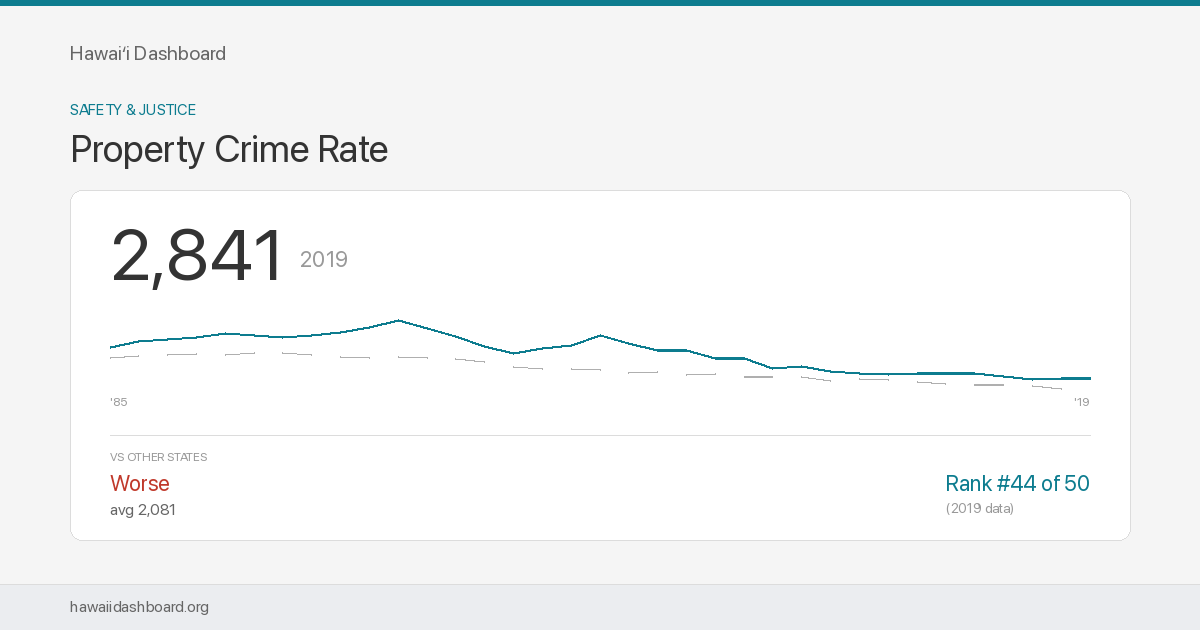
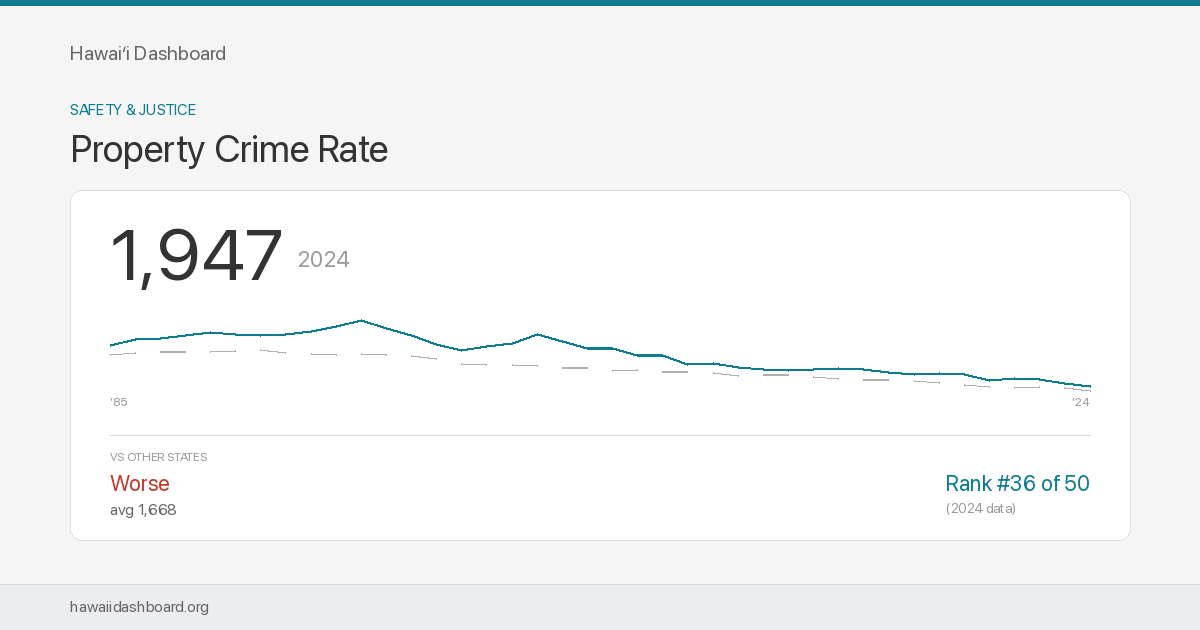
Extend property crime data to 2024 (was 2019)
Added 2020-2024 data from FBI CDE via BeautifyData.com.
Hawaii improved from 2,841 (2019) to 1,947 (2024), rank #36/50.
Updated narratives, rankings data, and OG images.

diff --git a/js/state-data.js b/js/state-data.js
@@ -9054,6 +9054,266 @@ const STATE_DATA = {
             "West Virginia": 1583.4,
             "Wisconsin": 1471.4,
             "Wyoming": 1571.1
+      },
+      "2020": {
+              "Louisiana": 2884.4,
+              "New Mexico": 2841.9,
+              "Colorado": 2833.8,
+              "Washington": 2732.4,
+              "South Carolina": 2721.1,
+              "Oklahoma": 2705.6,
+              "Oregon": 2659.0,
+              "Arkansas": 2613.4,
+              "Missouri": 2531.0,
+              "Tennessee": 2492.8,
+              "Utah": 2464.4,
+              "Hawaiʻi": 2411.4,
+              "Alaska": 2260.5,
+              "Texas": 2245.0,
+              "Arizona": 2227.7,
+              "North Carolina": 2226.5,
+              "Kansas": 2199.1,
+              "California": 2138.9,
+              "Alabama": 2136.8,
+              "Minnesota": 2124.9,
+              "North Dakota": 2124.1,
+              "Montana": 2120.8,
+              "Mississippi": 2101.6,
+              "Georgia": 2007.4,
+              "Delaware": 1961.4,
+              "South Dakota": 1956.7,
+              "Nevada": 1926.6,
+              "Nebraska": 1909.2,
+              "Ohio": 1850.3,
+              "Indiana": 1783.2,
+              "Kentucky": 1779.5,
+              "Florida": 1769.4,
+              "Iowa": 1698.2,
+              "Pennsylvania": 1644.1,
+              "Wyoming": 1610.6,
+              "Maryland": 1609.8,
+              "Connecticut": 1565.1,
+              "Illinois": 1559.4,
+              "Wisconsin": 1485.7,
+              "Virginia": 1456.4,
+              "New York": 1410.7,
+              "West Virginia": 1399.4,
+              "Michigan": 1360.9,
+              "Rhode Island": 1245.5,
+              "Vermont": 1217.0,
+              "New Jersey": 1158.2,
+              "Maine": 1156.2,
+              "Idaho": 1111.9,
+              "New Hampshire": 1098.9,
+              "Massachusetts": 1053.2
+      },
+      "2021": {
+              "Colorado": 3146.5,
+              "Washington": 3035.5,
+              "New Mexico": 2772.4,
+              "Oregon": 2690.9,
+              "Oklahoma": 2628.5,
+              "Hawaiʻi": 2533.2,
+              "Arkansas": 2529.0,
+              "Louisiana": 2528.9,
+              "South Carolina": 2493.8,
+              "Missouri": 2346.8,
+              "Tennessee": 2255.8,
+              "Kansas": 2247.2,
+              "Nevada": 2232.3,
+              "Texas": 2171.9,
+              "California": 2165.3,
+              "North Dakota": 2144.8,
+              "Arizona": 2114.8,
+              "Utah": 2099.2,
+              "North Carolina": 2087.2,
+              "Minnesota": 2045.6,
+              "Montana": 2029.3,
+              "Delaware": 1881.4,
+              "Mississippi": 1860.4,
+              "Alaska": 1832.8,
+              "Nebraska": 1818.6,
+              "Ohio": 1720.1,
+              "Wyoming": 1685.8,
+              "South Dakota": 1678.0,
+              "Kentucky": 1623.7,
+              "Georgia": 1601.4,
+              "Indiana": 1553.0,
+              "Wisconsin": 1537.5,
+              "Maryland": 1522.0,
+              "Connecticut": 1518.4,
+              "Florida": 1517.6,
+              "Iowa": 1508.3,
+              "Alabama": 1470.8,
+              "Virginia": 1449.4,
+              "Illinois": 1393.3,
+              "Vermont": 1383.8,
+              "Michigan": 1366.9,
+              "West Virginia": 1356.7,
+              "Pennsylvania": 1246.3,
+              "Rhode Island": 1228.3,
+              "Maine": 1134.2,
+              "New Jersey": 1109.4,
+              "New York": 1047.8,
+              "New Hampshire": 1037.5,
+              "Massachusetts": 1000.3,
+              "Idaho": 964.7
+      },
+      "2022": {
+              "Washington": 3370.7,
+              "Colorado": 3173.8,
+              "New Mexico": 2976.2,
+              "Oregon": 2950.3,
+              "Louisiana": 2759.2,
+              "Hawaiʻi": 2481.7,
+              "Arkansas": 2468.3,
+              "Nevada": 2398.7,
+              "Missouri": 2370.4,
+              "California": 2361.5,
+              "Oklahoma": 2351.2,
+              "South Carolina": 2331.6,
+              "Tennessee": 2331.3,
+              "Texas": 2309.2,
+              "Kansas": 2121.9,
+              "North Carolina": 2069.7,
+              "Arizona": 2060.2,
+              "North Dakota": 2007.8,
+              "Delaware": 1983.6,
+              "Minnesota": 1976.8,
+              "Montana": 1945.1,
+              "Utah": 1904.0,
+              "Nebraska": 1893.5,
+              "Alabama": 1835.0,
+              "Alaska": 1814.5,
+              "Ohio": 1806.7,
+              "Mississippi": 1739.7,
+              "South Dakota": 1737.6,
+              "New York": 1719.4,
+              "Virginia": 1714.1,
+              "Maryland": 1713.5,
+              "Georgia": 1708.7,
+              "Vermont": 1698.3,
+              "Illinois": 1692.6,
+              "Wyoming": 1649.5,
+              "Florida": 1606.9,
+              "Michigan": 1549.4,
+              "Indiana": 1520.7,
+              "Connecticut": 1507.7,
+              "Pennsylvania": 1503.4,
+              "Kentucky": 1486.0,
+              "New Jersey": 1438.6,
+              "Iowa": 1401.8,
+              "Wisconsin": 1369.6,
+              "West Virginia": 1333.0,
+              "Rhode Island": 1286.8,
+              "Maine": 1221.5,
+              "Massachusetts": 1074.8,
+              "New Hampshire": 1032.8,
+              "Idaho": 941.2
+      },
+      "2023": {
+              "Colorado": 2923.2,
+              "Washington": 2891.1,
+              "New Mexico": 2876.1,
+              "Louisiana": 2603.2,
+              "Oregon": 2601.9,
+              "Nevada": 2539.6,
+              "Tennessee": 2373.3,
+              "Kansas": 2337.2,
+              "California": 2326.1,
+              "Arkansas": 2236.7,
+              "Texas": 2229.3,
+              "South Carolina": 2224.4,
+              "Oklahoma": 2159.2,
+              "Missouri": 2158.0,
+              "Maryland": 2147.0,
+              "Hawaiʻi": 2142.5,
+              "North Carolina": 2070.7,
+              "Nebraska": 1975.7,
+              "North Dakota": 1944.4,
+              "Delaware": 1936.3,
+              "Arizona": 1926.6,
+              "Alaska": 1881.6,
+              "Georgia": 1877.8,
+              "Alabama": 1866.9,
+              "Montana": 1843.5,
+              "Vermont": 1817.5,
+              "New York": 1802.9,
+              "Ohio": 1746.6,
+              "Minnesota": 1706.9,
+              "Illinois": 1706.0,
+              "Virginia": 1670.1,
+              "South Dakota": 1622.9,
+              "Utah": 1618.4,
+              "Mississippi": 1584.7,
+              "Pennsylvania": 1564.5,
+              "Connecticut": 1564.4,
+              "Kentucky": 1559.7,
+              "Michigan": 1559.4,
+              "Indiana": 1537.8,
+              "New Jersey": 1527.5,
+              "Florida": 1510.8,
+              "Wyoming": 1474.9,
+              "Iowa": 1434.2,
+              "Wisconsin": 1237.5,
+              "West Virginia": 1188.5,
+              "Maine": 1128.7,
+              "Massachusetts": 1119.3,
+              "Rhode Island": 1115.0,
+              "New Hampshire": 912.0,
+              "Idaho": 818.8
+      },
+      "2024": {
+              "New Mexico": 2751.1,
+              "Colorado": 2592.8,
+              "Washington": 2466.5,
+              "Oregon": 2388.0,
+              "Louisiana": 2296.4,
+              "Nevada": 2197.0,
+              "California": 2078.4,
+              "Maryland": 2049.6,
+              "Texas": 2040.5,
+              "Tennessee": 2032.1,
+              "Oklahoma": 1977.7,
+              "North Carolina": 1968.2,
+              "South Carolina": 1965.8,
+              "Kansas": 1956.4,
+              "Hawaiʻi": 1946.8,
+              "Missouri": 1941.2,
+              "Arkansas": 1929.5,
+              "Arizona": 1792.1,
+              "Delaware": 1745.8,
+              "New York": 1719.5,
+              "Illinois": 1715.2,
+              "Alaska": 1711.2,
+              "North Dakota": 1682.1,
+              "Georgia": 1674.8,
+              "Vermont": 1627.5,
+              "Nebraska": 1626.7,
+              "Montana": 1617.3,
+              "Minnesota": 1606.3,
+              "South Dakota": 1586.0,
+              "Virginia": 1569.7,
+              "Alabama": 1565.1,
+              "Ohio": 1551.2,
+              "Pennsylvania": 1435.0,
+              "New Jersey": 1427.3,
+              "Florida": 1420.4,
+              "Utah": 1408.9,
+              "Michigan": 1378.9,
+              "Indiana": 1378.6,
+              "Connecticut": 1366.1,
+              "Mississippi": 1363.0,
+              "Kentucky": 1349.9,
+              "Iowa": 1296.8,
+              "Wyoming": 1231.9,
+              "West Virginia": 1161.9,
+              "Wisconsin": 1154.1,
+              "Maine": 1142.1,
+              "Massachusetts": 1112.1,
+              "Rhode Island": 1032.4,
+              "New Hampshire": 918.0,
+              "Idaho": 736.2
       }
 }
   },

diff --git a/js/data.js b/js/data.js
@@ -112,9 +112,9 @@ const DASHBOARD_DATA = {
     "goodDirection": "down",
     "source": "FBI Uniform Crime Reports",
     "sourceUrl": "https://cde.ucr.cjis.gov/",
-    "whyItMatters": "At 2,841 per 100,000 in 2019, Hawaiʻi's property crime rate is 36% above the other-state average of 2,081. This includes burglary, larceny-theft, and motor vehicle theft. Tourism-dependent areas, open-air living conditions, and high cost of living all contribute to elevated property crime.",
+    "whyItMatters": "At 1,947 per 100,000, Hawaiʻi's property crime rate is 17% above the other-state average of 1,668. This includes burglary, larceny-theft, and motor vehicle theft. Tourism-dependent areas, open-air living conditions, and high cost of living all contribute to elevated property crime.",
     "howToRead": "Hawaiʻi (teal) has consistently run above the other-state average (gray). Both lines have declined substantially since the early 1990s peak, but Hawaiʻi's gap above the average has persisted.",
-    "insight": "Hawaiʻi's property crime rate peaked at 6,903 per 100K in 1995 and has since fallen by 59%. Despite this dramatic improvement, the state still ranks #44 of 50 because the national decline was even steeper.",
+    "insight": "Hawaiʻi's property crime rate peaked at 6,903 per 100K in 1995 and has since fallen 72% to 1,947 in 2024. The gap with the national average has also narrowed, from 1.57x in 1995 to 1.17x today.",
     "hawaii": {
       "1985": 4981.1,
       "1986": 5426.2,
@@ -150,7 +150,12 @@ const DASHBOARD_DATA = {
       "2016": 2992.7,
       "2017": 2836.1,
       "2018": 2888.0,
-      "2019": 2841.2
+      "2019": 2841.2,
+      "2020": 2411.4,
+      "2021": 2533.2,
+      "2022": 2481.7,
+      "2023": 2142.5,
+      "2024": 1946.8
     },
     "otherStateAvg": {
       "1985": 4310.86,
@@ -187,7 +192,12 @@ const DASHBOARD_DATA = {
       "2016": 2448.11,
       "2017": 2369.24,
       "2018": 2205.06,
-      "2019": 2081.49
+      "2019": 2081.49,
+      "2020": 1942.26,
+      "2021": 1832.94,
+      "2022": 1902.42,
+      "2023": 1846.51,
+      "2024": 1668.06
     }
   },
   "pcp_per_100k": {

diff --git a/r/property_crime_rate/index.html b/r/property_crime_rate/index.html
@@ -6,16 +6,16 @@
   <meta property="og:type" content="website">
   <meta property="og:url" content="https://hawaiidashboard.org/r/property_crime_rate/">
   <meta property="og:title" content="Property Crime Rate Rankings | Hawaiʻi Dashboard">
-  <meta property="og:description" content="Hawaiʻi ranks #44 of 50 states in Property Crime Rate. 2,841 (2019).">
+  <meta property="og:description" content="Hawaiʻi ranks #36 of 50 states in Property Crime Rate. 1,947 (2024).">
   <meta property="og:image" content="https://hawaiidashboard.org/assets/og/property_crime_rate_rankings.png">
   <meta property="og:image:width" content="1200">
   <meta property="og:image:height" content="630">
   <meta property="og:site_name" content="Hawaiʻi Dashboard">
   <meta name="twitter:card" content="summary_large_image">
   <meta name="twitter:title" content="Property Crime Rate Rankings | Hawaiʻi Dashboard">
-  <meta name="twitter:description" content="Hawaiʻi ranks #44 of 50 states in Property Crime Rate. 2,841 (2019).">
+  <meta name="twitter:description" content="Hawaiʻi ranks #36 of 50 states in Property Crime Rate. 1,947 (2024).">
   <meta name="twitter:image" content="https://hawaiidashboard.org/assets/og/property_crime_rate_rankings.png">
-  <meta name="description" content="Hawaiʻi ranks #44 of 50 states in Property Crime Rate. 2,841 (2019).">
+  <meta name="description" content="Hawaiʻi ranks #36 of 50 states in Property Crime Rate. 1,947 (2024).">
   <link rel="canonical" href="https://hawaiidashboard.org/r/property_crime_rate/">
   <script>window.location.replace('/#property_crime_rate/rankings');</script>
   <meta http-equiv="refresh" content="0;url=https://hawaiidashboard.org/#property_crime_rate/rankings">

diff --git a/t/property_crime_rate/index.html b/t/property_crime_rate/index.html
@@ -6,16 +6,16 @@
   <meta property="og:type" content="website">
   <meta property="og:url" content="https://hawaiidashboard.org/t/property_crime_rate/">
   <meta property="og:title" content="Property Crime Rate | Hawaiʻi Dashboard">
-  <meta property="og:description" content="Safety & Justice: Hawaiʻi is at 2,841 (2019). Ranked #44 of 50 states.">
+  <meta property="og:description" content="Safety & Justice: Hawaiʻi is at 1,947 (2024). Ranked #36 of 50 states.">
   <meta property="og:image" content="https://hawaiidashboard.org/assets/og/property_crime_rate.png">
   <meta property="og:image:width" content="1200">
   <meta property="og:image:height" content="630">
   <meta property="og:site_name" content="Hawaiʻi Dashboard">
   <meta name="twitter:card" content="summary_large_image">
   <meta name="twitter:title" content="Property Crime Rate | Hawaiʻi Dashboard">
-  <meta name="twitter:description" content="Safety & Justice: Hawaiʻi is at 2,841 (2019). Ranked #44 of 50 states.">
+  <meta name="twitter:description" content="Safety & Justice: Hawaiʻi is at 1,947 (2024). Ranked #36 of 50 states.">
   <meta name="twitter:image" content="https://hawaiidashboard.org/assets/og/property_crime_rate.png">
-  <meta name="description" content="Safety & Justice: Hawaiʻi is at 2,841 (2019). Ranked #44 of 50 states.">
+  <meta name="description" content="Safety & Justice: Hawaiʻi is at 1,947 (2024). Ranked #36 of 50 states.">
   <link rel="canonical" href="https://hawaiidashboard.org/t/property_crime_rate/">
   <script>window.location.replace('/#property_crime_rate');</script>
   <meta http-equiv="refresh" content="0;url=https://hawaiidashboard.org/#property_crime_rate">
